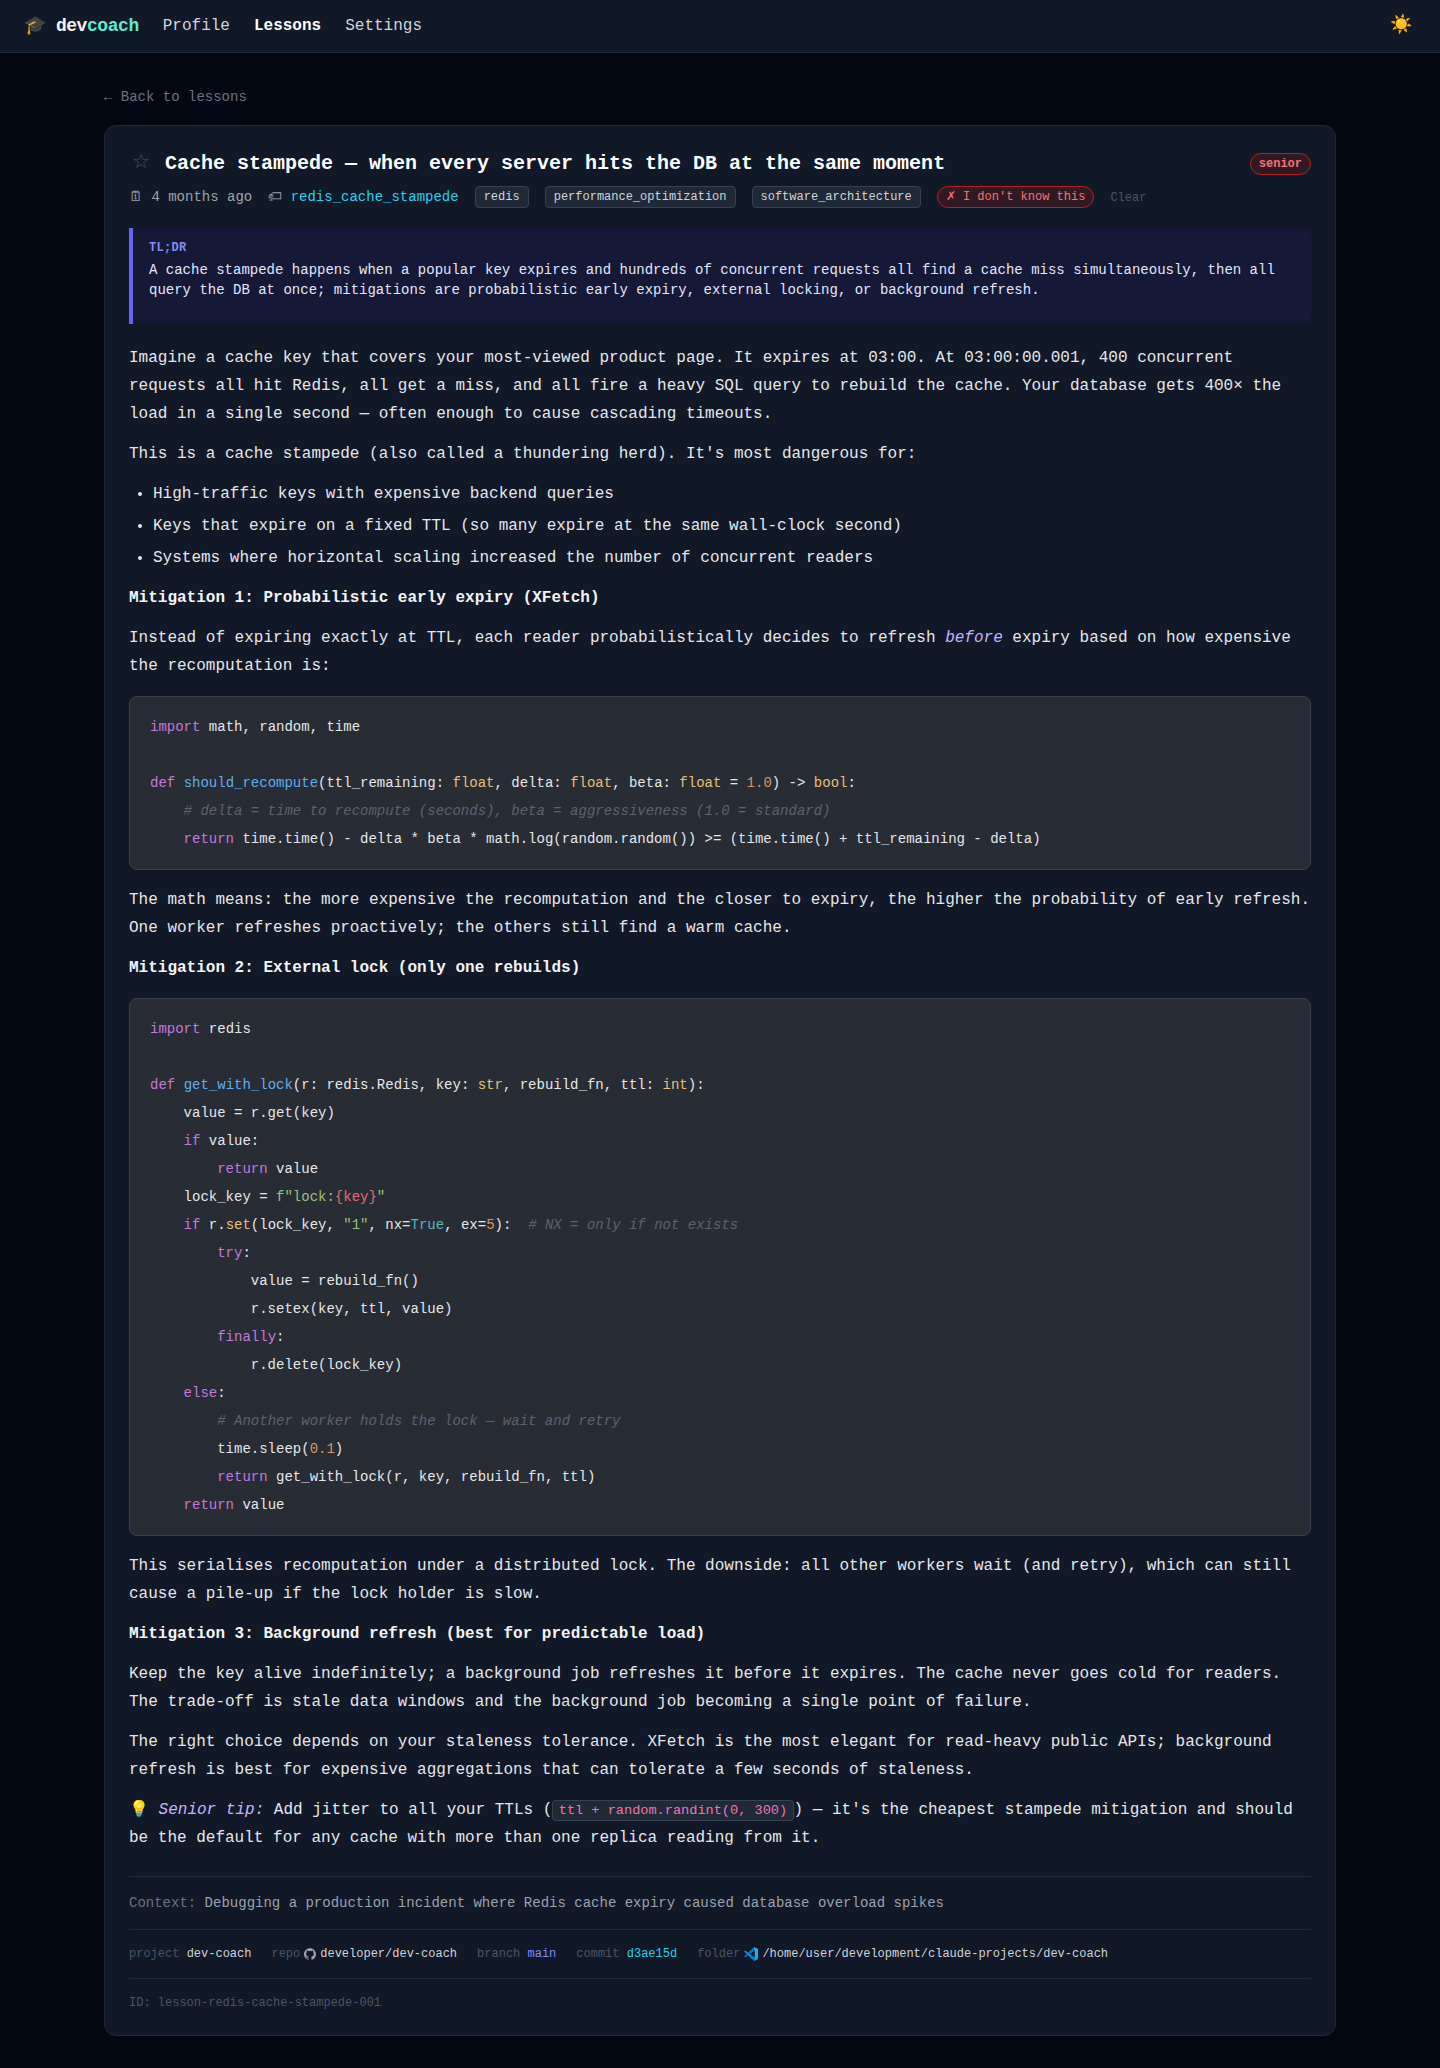
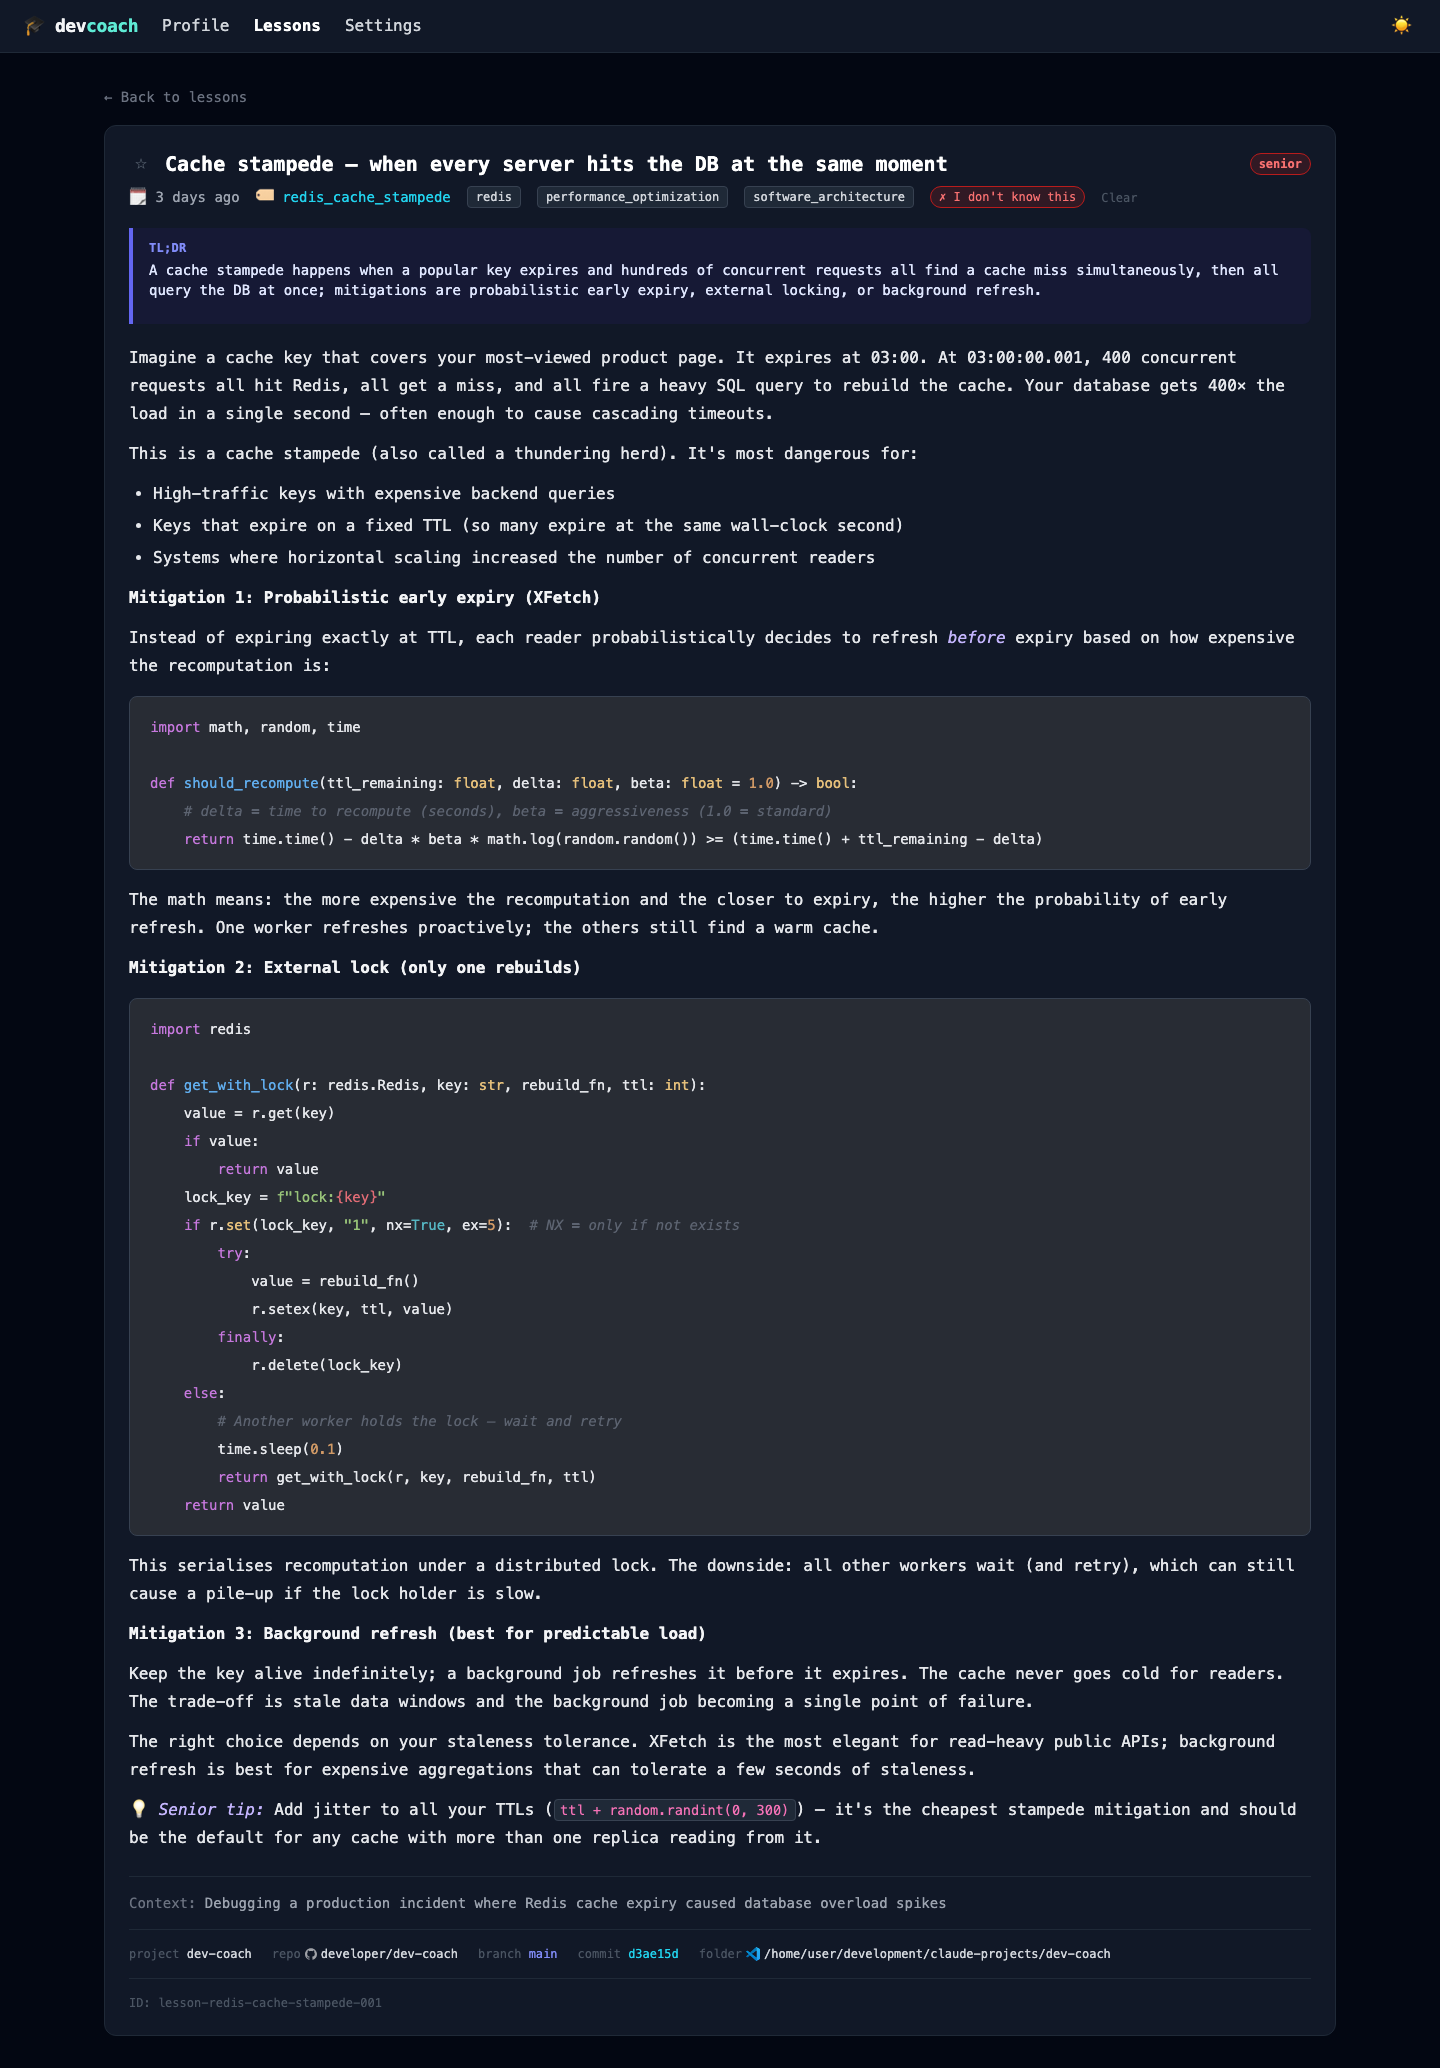
fix(screenshots): clean demo fixture, stable relative dates, regenerated screenshots and OG card
The screenshot fixture carried test residue that shipped in the README and docs site: a
"Version Control" / "version control" case-duplicate group, a "test" group and topic,
sqlite_* leftovers, and non-default settings (8/day, 15 min). Its lesson timestamps were fixed
(Jan–Apr 2026) so the Lessons page aged into "7 months ago" on every regeneration.

- fixture.zip rebuilt without the residue and with the product defaults (2 / 240 / 10 / session)
- scripts/screenshots.mjs shifts lesson timestamps and the notebook stamp to fixed offsets from
  now at capture time (3 d … 2 months ago), so regenerated screenshots always read the same
- tests/screenshots-fixture.test.ts guards the fixture (no duplicate groups, no test topics,
  defaults, the five demo lessons the docs link to)
- all 16 screenshots regenerated; website/static/img/og-card.jpg regenerated from the new
  lessons-dark.png (two-tone wordmark) via the new `npm run og-card` script; website engines
  aligned to node >=24

diff --git a/tests/screenshots-fixture.test.ts b/tests/screenshots-fixture.test.ts
@@ -1,0 +1,56 @@
+import { readFileSync } from "node:fs";
+import { dirname, join } from "node:path";
+import { fileURLToPath } from "node:url";
+import { strFromU8, unzipSync } from "fflate";
+import { describe, expect, it } from "vitest";
+import { DEFAULT_SETTINGS } from "../src/core/db";
+
+// The demo data behind docs/screenshots/*.png (restored by scripts/screenshots.mjs). It is a
+// public-facing artefact: test residue or duplicate groups end up in the README and the docs site.
+const root = join(dirname(fileURLToPath(import.meta.url)), "..");
+const files = unzipSync(readFileSync(join(root, "scripts", "screenshots", "fixture.zip")));
+const json = (name: string) => JSON.parse(strFromU8(files[name]));
+
+describe("screenshot fixture (scripts/screenshots/fixture.zip)", () => {
+  it("ships the four backup sections", () => {
+    expect(Object.keys(files).sort()).toEqual([
+      "knowledge.json",
+      "learning-state.md",
+      "lessons.json",
+      "settings.json",
+    ]);
+  });
+
+  it("has no duplicate or leftover groups and no test topics", () => {
+    const knowledge = json("knowledge.json") as {
+      groups: string[];
+      topics: { topic: string; group: string | null }[];
+    };
+    const lower = knowledge.groups.map((g) => g.trim().toLowerCase());
+    expect(new Set(lower).size).toBe(knowledge.groups.length);
+    expect(lower).not.toContain("test");
+    for (const t of knowledge.topics) {
+      expect(t.topic).not.toBe("test");
+      expect(t.topic).not.toMatch(/^sqlite_/);
+      if (t.group) expect(knowledge.groups).toContain(t.group);
+    }
+  });
+
+  it("shows the product defaults in the Settings screenshot", () => {
+    const settings = json("settings.json") as Record<string, string | number>;
+    for (const [key, value] of Object.entries(DEFAULT_SETTINGS)) {
+      expect(String(settings[key])).toBe(value);
+    }
+  });
+
+  it("keeps the five demo lessons the docs pages link to", () => {
+    const ids = (json("lessons.json") as { id: string }[]).map((l) => l.id).sort();
+    expect(ids).toEqual([
+      "lesson-ci-cd-pipeline-stages-001",
+      "lesson-docker-layer-cache-001",
+      "lesson-git-interactive-rebase-001",
+      "lesson-postgresql-explain-analyze-001",
+      "lesson-redis-cache-stampede-001",
+    ]);
+  });
+});
